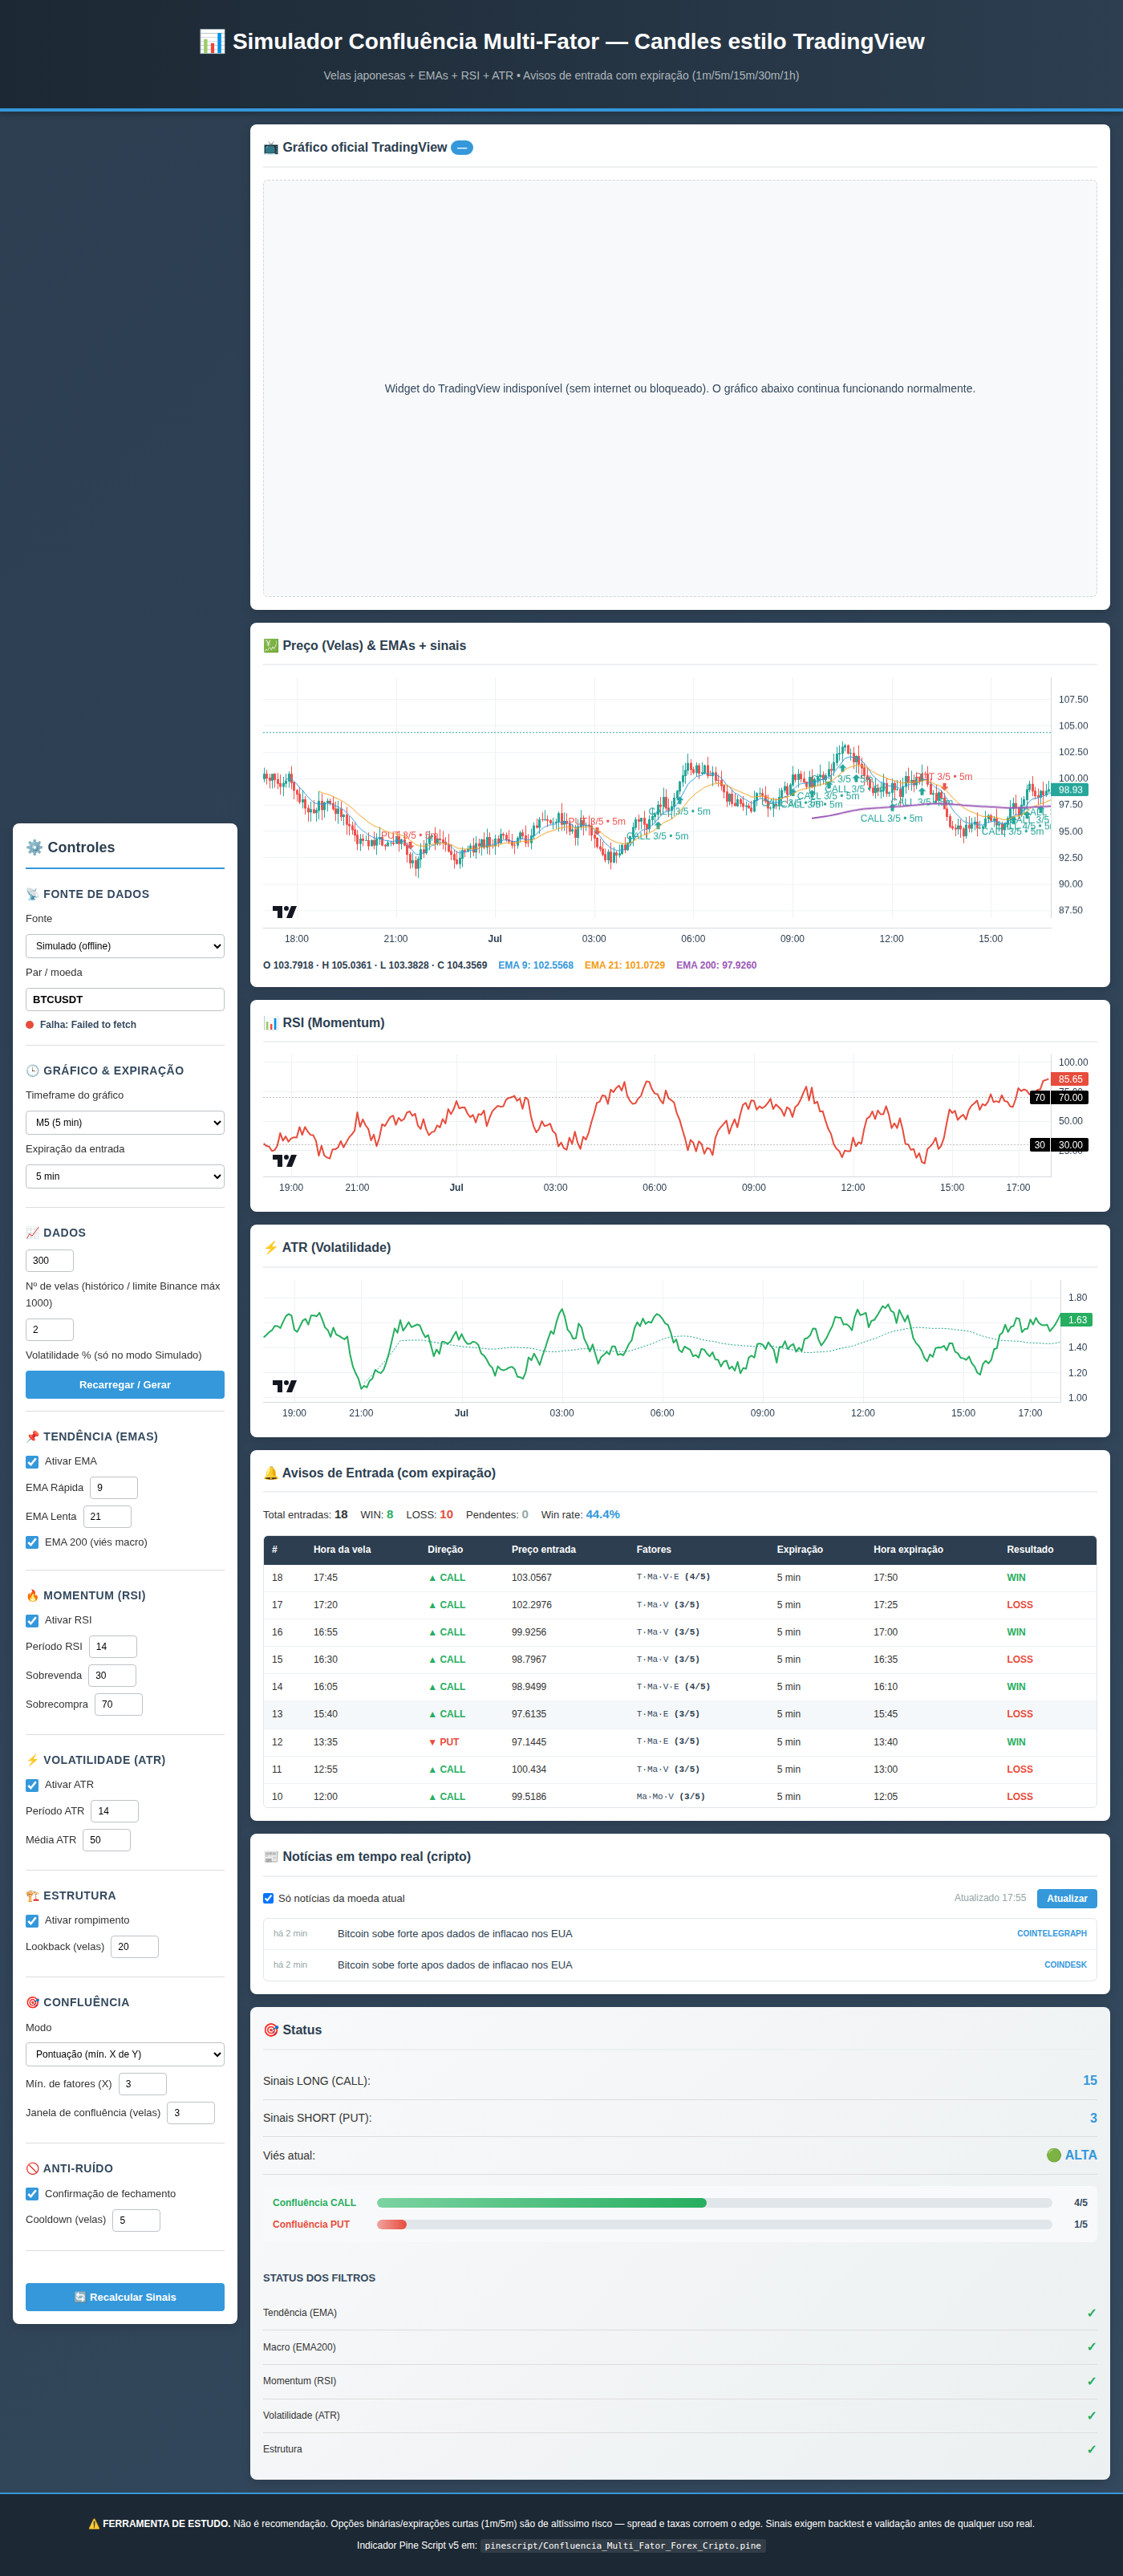
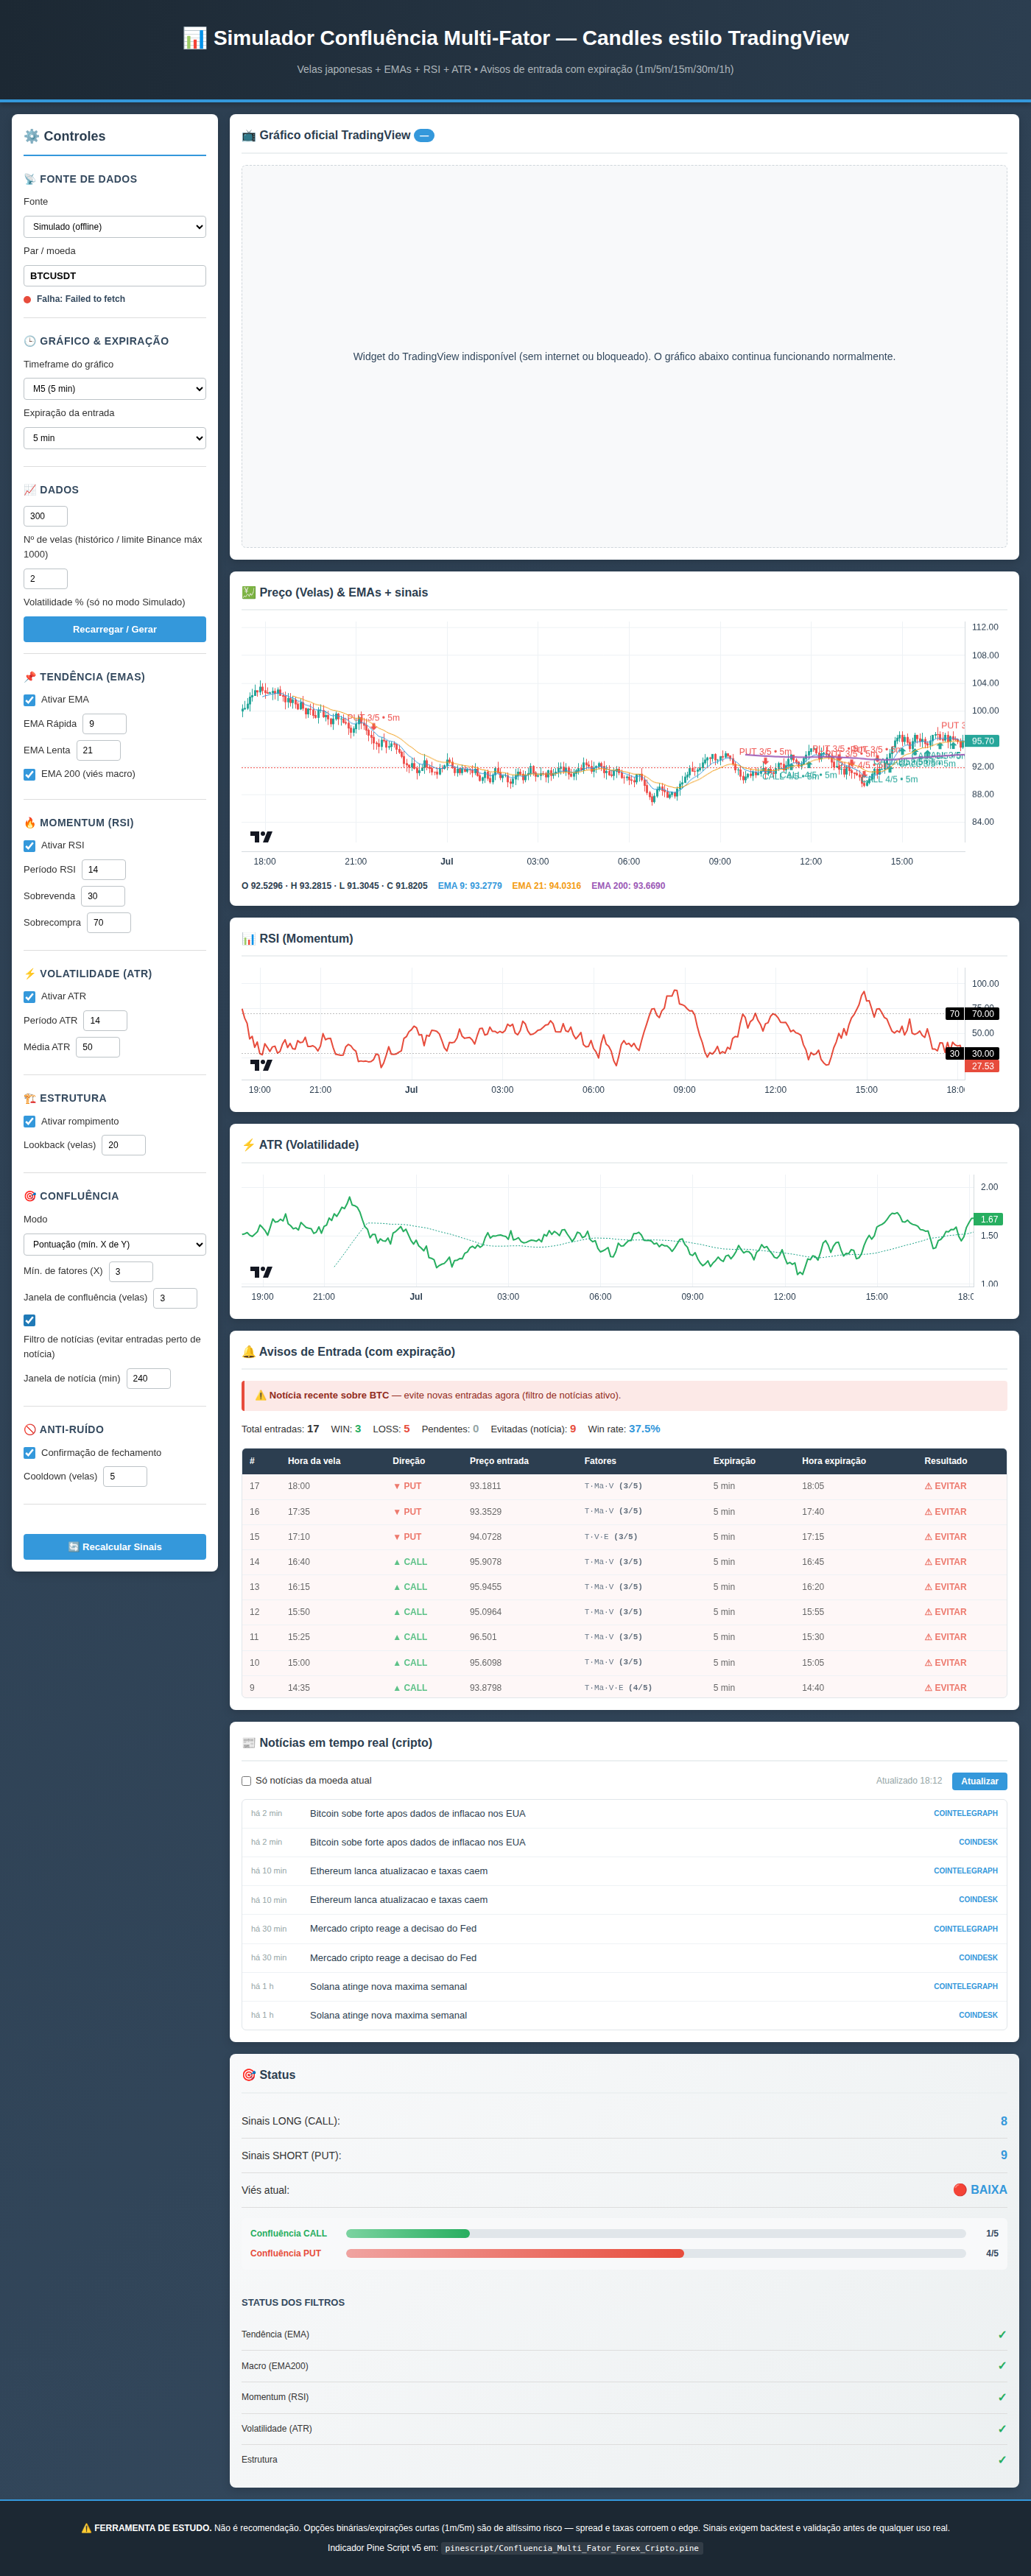
Add news filter to confluence (avoid entries near high-impact news)
- New "Filtro de notícias" toggle with a configurable window (min): entries
  whose timestamp falls within that window of a news item about the current
  asset are flagged "⚠ EVITAR", visually dimmed, and excluded from the win
  rate (surfaced as "Evitadas (notícia)")
- A red risk banner warns when the most recent candle sits inside the news
  window, so the user avoids opening a position right on top of an event
- Confluence controls (mode/min-score/window) now recompute signals on change;
  news-filter controls re-evaluate the panel without reloading data
- Panel refreshes its risk flags whenever the 60s news poll brings new headlines

Verified in headless Chromium against the local news mock: toggling the filter
raises the banner, marks the recent BTC entries as EVITAR, and recomputes the
win rate over non-blocked entries, with no fatal errors.

diff --git a/pinescript/Simulador_Standalone.html b/pinescript/Simulador_Standalone.html
@@ -409,6 +409,22 @@ body {
 }
 .entry-table .cell-fatores b { color: var(--color-primary); }
 
+/* Banner de risco de notícia + entradas bloqueadas */
+.news-risk-banner {
+    display: none;
+    padding: 10px 14px;
+    margin-bottom: 12px;
+    background: rgba(231, 76, 60, 0.12);
+    border-left: 4px solid var(--color-danger);
+    border-radius: 4px;
+    font-size: 13px;
+    color: #922b21;
+}
+
+.entry-table tr.row-blocked { background: rgba(231, 76, 60, 0.06); opacity: 0.75; }
+.entry-table .res-block { color: var(--color-danger); font-weight: 700; }
+.entry-summary .sum-block strong { color: var(--color-danger); }
+
 /* ============================================================================
    NOTÍCIAS EM TEMPO REAL
    ============================================================================ */
@@ -873,6 +889,8 @@ body {
                     </label>
                     <label>Mín. de fatores (X) <input type="number" id="minScore" value="3" min="1" max="5"></label>
                     <label>Janela de confluência (velas) <input type="number" id="confJanela" value="3" min="1" max="20"></label>
+                    <label><input type="checkbox" id="useNewsFilter"> <span>Filtro de notícias (evitar entradas perto de notícia)</span></label>
+                    <label>Janela de notícia (min) <input type="number" id="newsJanela" value="15" min="1" max="240"></label>
                 </section>
 
                 <!-- Anti-Ruído -->
@@ -918,6 +936,7 @@ body {
                 <!-- Avisos de Entrada com Expiração -->
                 <div class="chart-container">
                     <h2>🔔 Avisos de Entrada (com expiração)</h2>
+                    <div id="newsRiskBanner" class="news-risk-banner"></div>
                     <div class="entry-summary" id="entrySummary"></div>
                     <div class="entry-table-wrap">
                         <table class="entry-table" id="entryTable">
@@ -1390,6 +1409,7 @@ function atualizarLegenda() {
 // ============================================================================
 
 function atualizarPaineis() {
+    if (!computed || !computed.closes || !computed.closes.length) return;
     document.getElementById('countLong').textContent = sinaisLong.length;
     document.getElementById('countShort').textContent = sinaisShort.length;
 
@@ -1424,32 +1444,53 @@ function atualizarPaineis() {
         fs.appendChild(div);
     });
 
+    // Filtro de notícias: bloqueia/avisa entradas perto de notícia da moeda
+    const useNewsFilter = document.getElementById('useNewsFilter').checked;
+    const newsJanela = parseInt(document.getElementById('newsJanela').value);
+    const bloqueada = e => useNewsFilter && noticiaProxima(e.entryTime, newsJanela);
+
+    // Banner de risco de notícia (sobre a vela mais recente)
+    const banner = document.getElementById('newsRiskBanner');
+    const lastT = dados.length ? dados[dados.length - 1].time : 0;
+    if (useNewsFilter && lastT && noticiaProxima(lastT, newsJanela)) {
+        banner.style.display = 'block';
+        banner.innerHTML = '⚠️ <strong>Notícia recente sobre ' + baseAsset() + '</strong> — evite novas entradas agora (filtro de notícias ativo).';
+    } else {
+        banner.style.display = 'none';
+    }
+
     const tbody = document.getElementById('entryTableBody');
     tbody.innerHTML = '';
     [...entradas].reverse().slice(0, 30).forEach((e, idx) => {
         const tr = document.createElement('tr');
         const dc = e.dir === 'CALL' ? 'dir-call' : 'dir-put';
-        const rc = e.resultado === 'WIN' ? 'res-win' : e.resultado === 'LOSS' ? 'res-loss' : 'res-pend';
+        const bloq = bloqueada(e);
+        const rc = bloq ? 'res-block' : e.resultado === 'WIN' ? 'res-win' : e.resultado === 'LOSS' ? 'res-loss' : 'res-pend';
+        if (bloq) tr.className = 'row-blocked';
         tr.innerHTML =
             `<td>${entradas.length - idx}</td><td>${fmtHora(e.entryTime)}</td>` +
             `<td class="${dc}">${e.dir === 'CALL' ? '▲ CALL' : '▼ PUT'}</td>` +
             `<td>${e.entryPrice}</td>` +
             `<td class="cell-fatores">${e.fatores} <b>(${e.score}/${e.enabled})</b></td>` +
             `<td>${e.expMin} min</td><td>${fmtHora(e.expTime)}</td>` +
-            `<td class="${rc}">${e.resultado}</td>`;
+            `<td class="${rc}">${bloq ? '⚠ EVITAR' : e.resultado}</td>`;
         tbody.appendChild(tr);
     });
 
-    const aval = entradas.filter(e => e.resultado === 'WIN' || e.resultado === 'LOSS');
-    const wins = entradas.filter(e => e.resultado === 'WIN').length;
-    const losses = entradas.filter(e => e.resultado === 'LOSS').length;
-    const pend = entradas.filter(e => e.resultado === 'pendente').length;
+    // Win rate ignora entradas bloqueadas por notícia
+    const validas = entradas.filter(e => !bloqueada(e));
+    const aval = validas.filter(e => e.resultado === 'WIN' || e.resultado === 'LOSS');
+    const wins = validas.filter(e => e.resultado === 'WIN').length;
+    const losses = validas.filter(e => e.resultado === 'LOSS').length;
+    const pend = validas.filter(e => e.resultado === 'pendente').length;
+    const bloqueadas = entradas.length - validas.length;
     const wr = aval.length ? ((wins / aval.length) * 100).toFixed(1) : '–';
     document.getElementById('entrySummary').innerHTML =
         `<span class="sum-item">Total entradas: <strong>${entradas.length}</strong></span>` +
         `<span class="sum-item sum-win">WIN: <strong>${wins}</strong></span>` +
         `<span class="sum-item sum-loss">LOSS: <strong>${losses}</strong></span>` +
         `<span class="sum-item sum-pend">Pendentes: <strong>${pend}</strong></span>` +
+        (bloqueadas ? `<span class="sum-item sum-block">Evitadas (notícia): <strong>${bloqueadas}</strong></span>` : '') +
         `<span class="sum-item sum-rate">Win rate: <strong>${wr}${wr === '–' ? '' : '%'}</strong></span>`;
 
     const hint = document.getElementById('entryHint');
@@ -1719,6 +1760,7 @@ async function carregarNoticias() {
         noticias = todas.slice(0, 30);
         status.textContent = 'Atualizado ' + fmtHora(Math.floor(Date.now() / 1000));
         renderNoticias();
+        atualizarPaineis();   // atualiza banner/flags de risco de notícia com as novas manchetes
     } catch (err) {
         status.textContent = 'Indisponível (requer internet)';
         document.getElementById('newsList').innerHTML =
@@ -1726,17 +1768,29 @@ async function carregarNoticias() {
     }
 }
 
-function renderNoticias() {
-    const soMoeda = document.getElementById('newsSoMoeda').checked;
+// Termos de busca da moeda atual (para filtrar notícias)
+function termosMoeda() {
     const base = baseAsset().toLowerCase();
     const nomes = {
         btc: ['btc', 'bitcoin'], eth: ['eth', 'ethereum'], sol: ['sol', 'solana'], xrp: ['xrp', 'ripple'],
         bnb: ['bnb', 'binance'], doge: ['doge', 'dogecoin'], ada: ['ada', 'cardano'], avax: ['avax', 'avalanche'],
         link: ['chainlink', 'link'], matic: ['polygon', 'matic'], ltc: ['litecoin', 'ltc']
     };
-    const termos = nomes[base] || [base];
+    return nomes[base] || [base];
+}
+function noticiasMoeda() {
+    const termos = termosMoeda();
+    return noticias.filter(n => termos.some(t => n.title.toLowerCase().includes(t)));
+}
+// Existe notícia da moeda dentro de +/- janela (min) do timestamp (seg)?
+function noticiaProxima(tsSec, janelaMin) {
+    return noticiasMoeda().some(n => Math.abs(Math.floor(n.date.getTime() / 1000) - tsSec) <= janelaMin * 60);
+}
+
+function renderNoticias() {
+    const soMoeda = document.getElementById('newsSoMoeda').checked;
     let lista = noticias;
-    if (soMoeda) lista = noticias.filter(n => termos.some(t => n.title.toLowerCase().includes(t)));
+    if (soMoeda) lista = noticiasMoeda();
 
     const el = document.getElementById('newsList');
     if (!lista.length) {
@@ -1769,6 +1823,12 @@ document.getElementById('symbol').addEventListener('change', function () {
 });
 document.getElementById('btnNews').addEventListener('click', carregarNoticias);
 document.getElementById('newsSoMoeda').addEventListener('change', renderNoticias);
+// Confluência: mudar modo/pontuação/janela recalcula os sinais na hora
+['confMode', 'minScore', 'confJanela'].forEach(id =>
+    document.getElementById(id).addEventListener('change', recalcularSinaisApenas));
+// Filtro de notícias: só reavalia o painel (não recarrega dados)
+['useNewsFilter', 'newsJanela'].forEach(id =>
+    document.getElementById(id).addEventListener('change', atualizarPaineis));
 document.getElementById('expiracao').addEventListener('change', function () {
     if (!dados.length) { carregar(); return; }
     recomputarEntradas();

diff --git a/pinescript/app.js b/pinescript/app.js
@@ -402,6 +402,7 @@ function atualizarLegenda() {
 // ============================================================================
 
 function atualizarPaineis() {
+    if (!computed || !computed.closes || !computed.closes.length) return;
     document.getElementById('countLong').textContent = sinaisLong.length;
     document.getElementById('countShort').textContent = sinaisShort.length;
 
@@ -436,32 +437,53 @@ function atualizarPaineis() {
         fs.appendChild(div);
     });
 
+    // Filtro de notícias: bloqueia/avisa entradas perto de notícia da moeda
+    const useNewsFilter = document.getElementById('useNewsFilter').checked;
+    const newsJanela = parseInt(document.getElementById('newsJanela').value);
+    const bloqueada = e => useNewsFilter && noticiaProxima(e.entryTime, newsJanela);
+
+    // Banner de risco de notícia (sobre a vela mais recente)
+    const banner = document.getElementById('newsRiskBanner');
+    const lastT = dados.length ? dados[dados.length - 1].time : 0;
+    if (useNewsFilter && lastT && noticiaProxima(lastT, newsJanela)) {
+        banner.style.display = 'block';
+        banner.innerHTML = '⚠️ <strong>Notícia recente sobre ' + baseAsset() + '</strong> — evite novas entradas agora (filtro de notícias ativo).';
+    } else {
+        banner.style.display = 'none';
+    }
+
     const tbody = document.getElementById('entryTableBody');
     tbody.innerHTML = '';
     [...entradas].reverse().slice(0, 30).forEach((e, idx) => {
         const tr = document.createElement('tr');
         const dc = e.dir === 'CALL' ? 'dir-call' : 'dir-put';
-        const rc = e.resultado === 'WIN' ? 'res-win' : e.resultado === 'LOSS' ? 'res-loss' : 'res-pend';
+        const bloq = bloqueada(e);
+        const rc = bloq ? 'res-block' : e.resultado === 'WIN' ? 'res-win' : e.resultado === 'LOSS' ? 'res-loss' : 'res-pend';
+        if (bloq) tr.className = 'row-blocked';
         tr.innerHTML =
             `<td>${entradas.length - idx}</td><td>${fmtHora(e.entryTime)}</td>` +
             `<td class="${dc}">${e.dir === 'CALL' ? '▲ CALL' : '▼ PUT'}</td>` +
             `<td>${e.entryPrice}</td>` +
             `<td class="cell-fatores">${e.fatores} <b>(${e.score}/${e.enabled})</b></td>` +
             `<td>${e.expMin} min</td><td>${fmtHora(e.expTime)}</td>` +
-            `<td class="${rc}">${e.resultado}</td>`;
+            `<td class="${rc}">${bloq ? '⚠ EVITAR' : e.resultado}</td>`;
         tbody.appendChild(tr);
     });
 
-    const aval = entradas.filter(e => e.resultado === 'WIN' || e.resultado === 'LOSS');
-    const wins = entradas.filter(e => e.resultado === 'WIN').length;
-    const losses = entradas.filter(e => e.resultado === 'LOSS').length;
-    const pend = entradas.filter(e => e.resultado === 'pendente').length;
+    // Win rate ignora entradas bloqueadas por notícia
+    const validas = entradas.filter(e => !bloqueada(e));
+    const aval = validas.filter(e => e.resultado === 'WIN' || e.resultado === 'LOSS');
+    const wins = validas.filter(e => e.resultado === 'WIN').length;
+    const losses = validas.filter(e => e.resultado === 'LOSS').length;
+    const pend = validas.filter(e => e.resultado === 'pendente').length;
+    const bloqueadas = entradas.length - validas.length;
     const wr = aval.length ? ((wins / aval.length) * 100).toFixed(1) : '–';
     document.getElementById('entrySummary').innerHTML =
         `<span class="sum-item">Total entradas: <strong>${entradas.length}</strong></span>` +
         `<span class="sum-item sum-win">WIN: <strong>${wins}</strong></span>` +
         `<span class="sum-item sum-loss">LOSS: <strong>${losses}</strong></span>` +
         `<span class="sum-item sum-pend">Pendentes: <strong>${pend}</strong></span>` +
+        (bloqueadas ? `<span class="sum-item sum-block">Evitadas (notícia): <strong>${bloqueadas}</strong></span>` : '') +
         `<span class="sum-item sum-rate">Win rate: <strong>${wr}${wr === '–' ? '' : '%'}</strong></span>`;
 
     const hint = document.getElementById('entryHint');
@@ -731,6 +753,7 @@ async function carregarNoticias() {
         noticias = todas.slice(0, 30);
         status.textContent = 'Atualizado ' + fmtHora(Math.floor(Date.now() / 1000));
         renderNoticias();
+        atualizarPaineis();   // atualiza banner/flags de risco de notícia com as novas manchetes
     } catch (err) {
         status.textContent = 'Indisponível (requer internet)';
         document.getElementById('newsList').innerHTML =
@@ -738,17 +761,29 @@ async function carregarNoticias() {
     }
 }
 
-function renderNoticias() {
-    const soMoeda = document.getElementById('newsSoMoeda').checked;
+// Termos de busca da moeda atual (para filtrar notícias)
+function termosMoeda() {
     const base = baseAsset().toLowerCase();
     const nomes = {
         btc: ['btc', 'bitcoin'], eth: ['eth', 'ethereum'], sol: ['sol', 'solana'], xrp: ['xrp', 'ripple'],
         bnb: ['bnb', 'binance'], doge: ['doge', 'dogecoin'], ada: ['ada', 'cardano'], avax: ['avax', 'avalanche'],
         link: ['chainlink', 'link'], matic: ['polygon', 'matic'], ltc: ['litecoin', 'ltc']
     };
-    const termos = nomes[base] || [base];
+    return nomes[base] || [base];
+}
+function noticiasMoeda() {
+    const termos = termosMoeda();
+    return noticias.filter(n => termos.some(t => n.title.toLowerCase().includes(t)));
+}
+// Existe notícia da moeda dentro de +/- janela (min) do timestamp (seg)?
+function noticiaProxima(tsSec, janelaMin) {
+    return noticiasMoeda().some(n => Math.abs(Math.floor(n.date.getTime() / 1000) - tsSec) <= janelaMin * 60);
+}
+
+function renderNoticias() {
+    const soMoeda = document.getElementById('newsSoMoeda').checked;
     let lista = noticias;
-    if (soMoeda) lista = noticias.filter(n => termos.some(t => n.title.toLowerCase().includes(t)));
+    if (soMoeda) lista = noticiasMoeda();
 
     const el = document.getElementById('newsList');
     if (!lista.length) {
@@ -781,6 +816,12 @@ document.getElementById('symbol').addEventListener('change', function () {
 });
 document.getElementById('btnNews').addEventListener('click', carregarNoticias);
 document.getElementById('newsSoMoeda').addEventListener('change', renderNoticias);
+// Confluência: mudar modo/pontuação/janela recalcula os sinais na hora
+['confMode', 'minScore', 'confJanela'].forEach(id =>
+    document.getElementById(id).addEventListener('change', recalcularSinaisApenas));
+// Filtro de notícias: só reavalia o painel (não recarrega dados)
+['useNewsFilter', 'newsJanela'].forEach(id =>
+    document.getElementById(id).addEventListener('change', atualizarPaineis));
 document.getElementById('expiracao').addEventListener('change', function () {
     if (!dados.length) { carregar(); return; }
     recomputarEntradas();

diff --git a/pinescript/styles.css b/pinescript/styles.css
@@ -390,6 +390,22 @@ body {
 }
 .entry-table .cell-fatores b { color: var(--color-primary); }
 
+/* Banner de risco de notícia + entradas bloqueadas */
+.news-risk-banner {
+    display: none;
+    padding: 10px 14px;
+    margin-bottom: 12px;
+    background: rgba(231, 76, 60, 0.12);
+    border-left: 4px solid var(--color-danger);
+    border-radius: 4px;
+    font-size: 13px;
+    color: #922b21;
+}
+
+.entry-table tr.row-blocked { background: rgba(231, 76, 60, 0.06); opacity: 0.75; }
+.entry-table .res-block { color: var(--color-danger); font-weight: 700; }
+.entry-summary .sum-block strong { color: var(--color-danger); }
+
 /* ============================================================================
    NOTÍCIAS EM TEMPO REAL
    ============================================================================ */

diff --git a/pinescript/index.html b/pinescript/index.html
@@ -128,6 +128,8 @@
                     </label>
                     <label>Mín. de fatores (X) <input type="number" id="minScore" value="3" min="1" max="5"></label>
                     <label>Janela de confluência (velas) <input type="number" id="confJanela" value="3" min="1" max="20"></label>
+                    <label><input type="checkbox" id="useNewsFilter"> <span>Filtro de notícias (evitar entradas perto de notícia)</span></label>
+                    <label>Janela de notícia (min) <input type="number" id="newsJanela" value="15" min="1" max="240"></label>
                 </section>
 
                 <!-- Anti-Ruído -->
@@ -173,6 +175,7 @@
                 <!-- Avisos de Entrada com Expiração -->
                 <div class="chart-container">
                     <h2>🔔 Avisos de Entrada (com expiração)</h2>
+                    <div id="newsRiskBanner" class="news-risk-banner"></div>
                     <div class="entry-summary" id="entrySummary"></div>
                     <div class="entry-table-wrap">
                         <table class="entry-table" id="entryTable">

diff --git a/pinescript/README.md b/pinescript/README.md
@@ -33,6 +33,14 @@ de status tem um **medidor de confluência ao vivo** (CALL e PUT) da última vel
 Legenda dos fatores: `T` Tendência (EMA), `Ma` Macro (EMA200), `Mo` Momentum (RSI),
 `V` Volatilidade (ATR), `E` Estrutura (rompimento).
 
+### Filtro de notícias (evitar operar no susto)
+
+Com **"Filtro de notícias"** ligado, entradas cujo horário cai dentro de uma
+**janela (min)** em torno de uma notícia da moeda atual são marcadas **⚠ EVITAR**,
+destacadas na tabela e **excluídas do win rate** (contadas como "Evitadas (notícia)").
+Um **banner vermelho** avisa quando a vela mais recente está nessa janela de risco —
+útil para não abrir posição em cima de um evento de alto impacto.
+
 ## 📰 Notícias em tempo real
 
 Painel **Notícias em tempo real (cripto)** que agrega manchetes de RSS